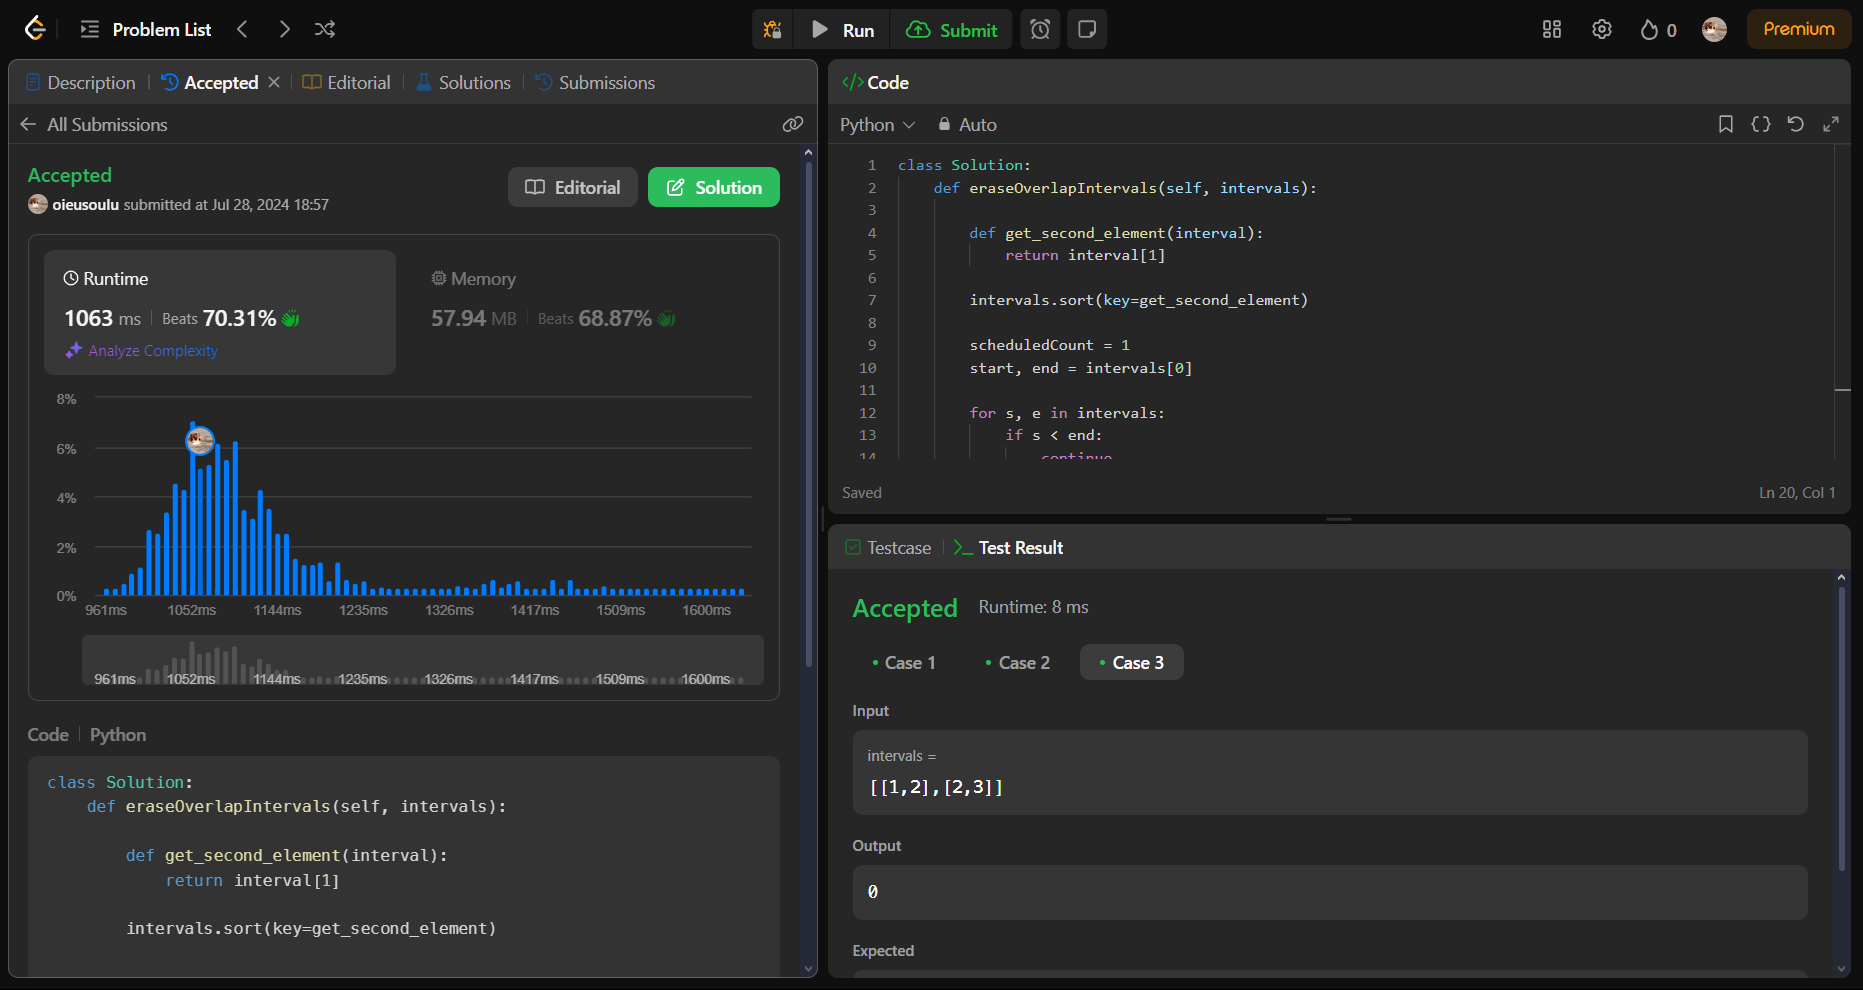
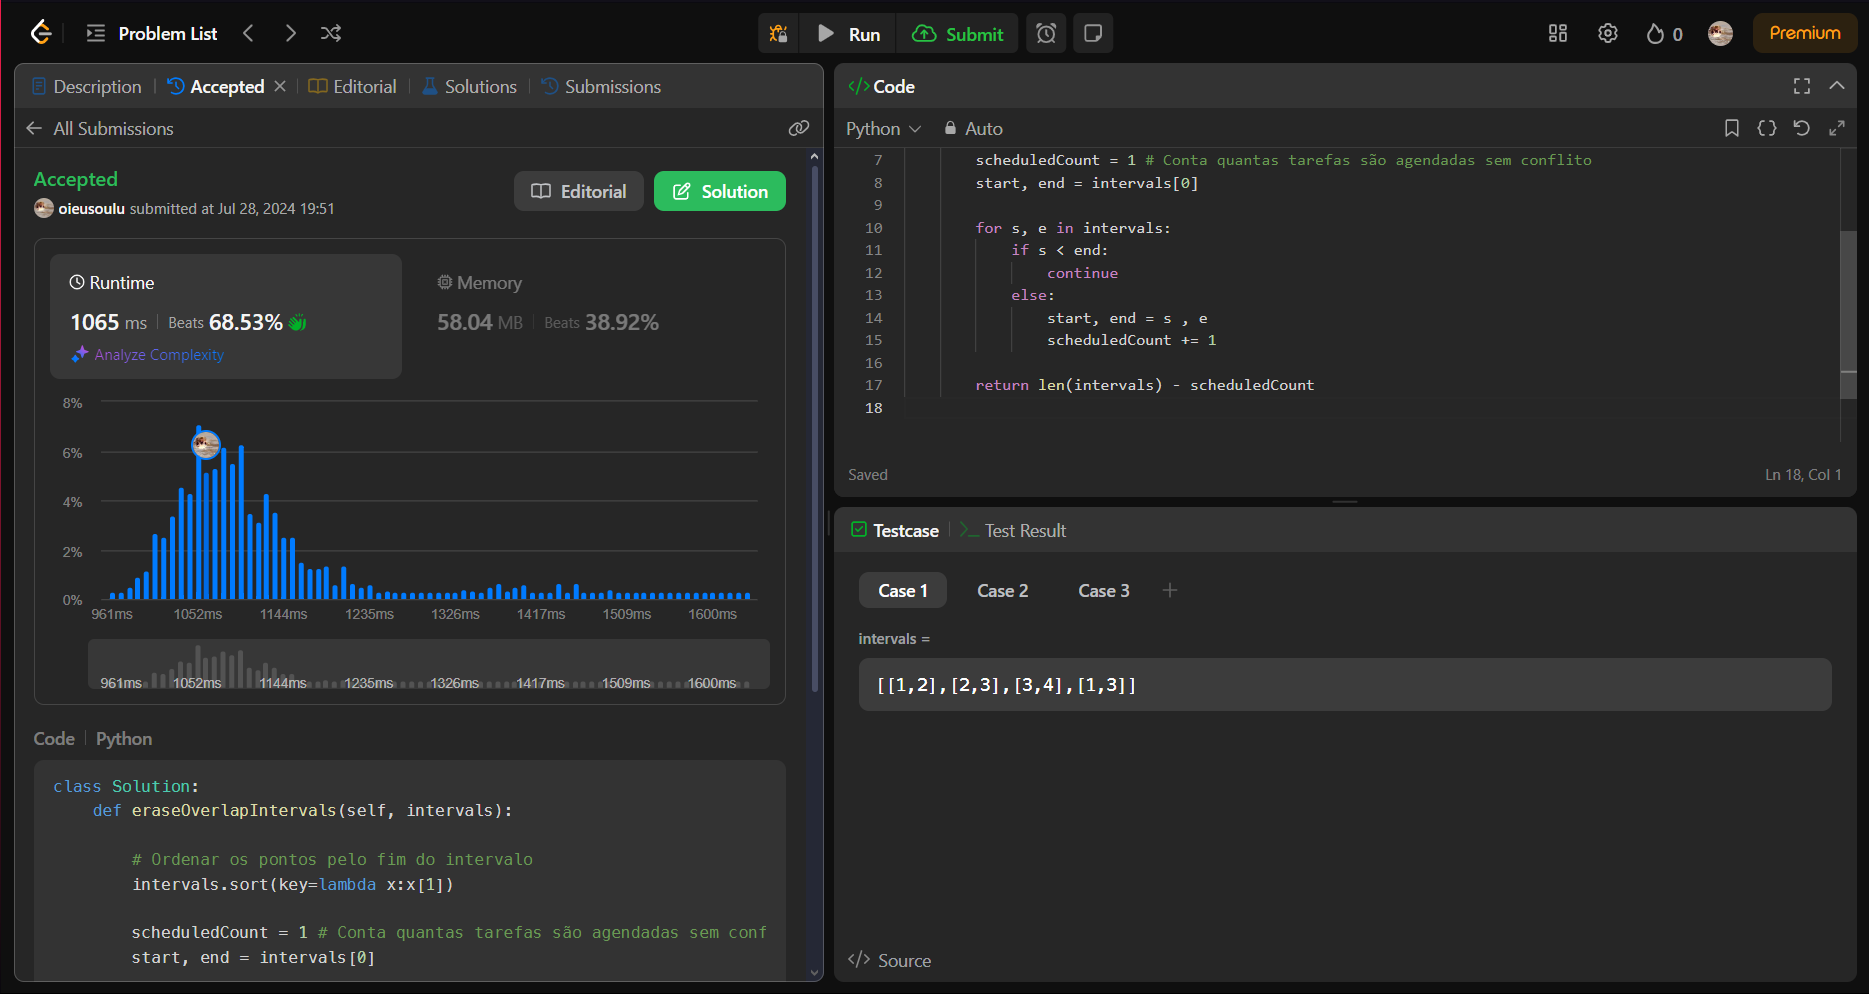
troca funcao sort

diff --git a/questao435.py b/questao435.py
@@ -1,12 +1,10 @@
 class Solution:
     def eraseOverlapIntervals(self, intervals):
 
-        def getEndTime(interval):
-            return interval[1]
-        
-        intervals.sort(key=getEndTime) 
+        # Ordenar os pontos pelo fim do intervalo
+        intervals.sort(key=lambda x:x[1]) 
 
-        scheduledCount = 1
+        scheduledCount = 1 # Conta quantas tarefas são agendadas sem conflito
         start, end = intervals[0]
 
         for s, e in intervals:
